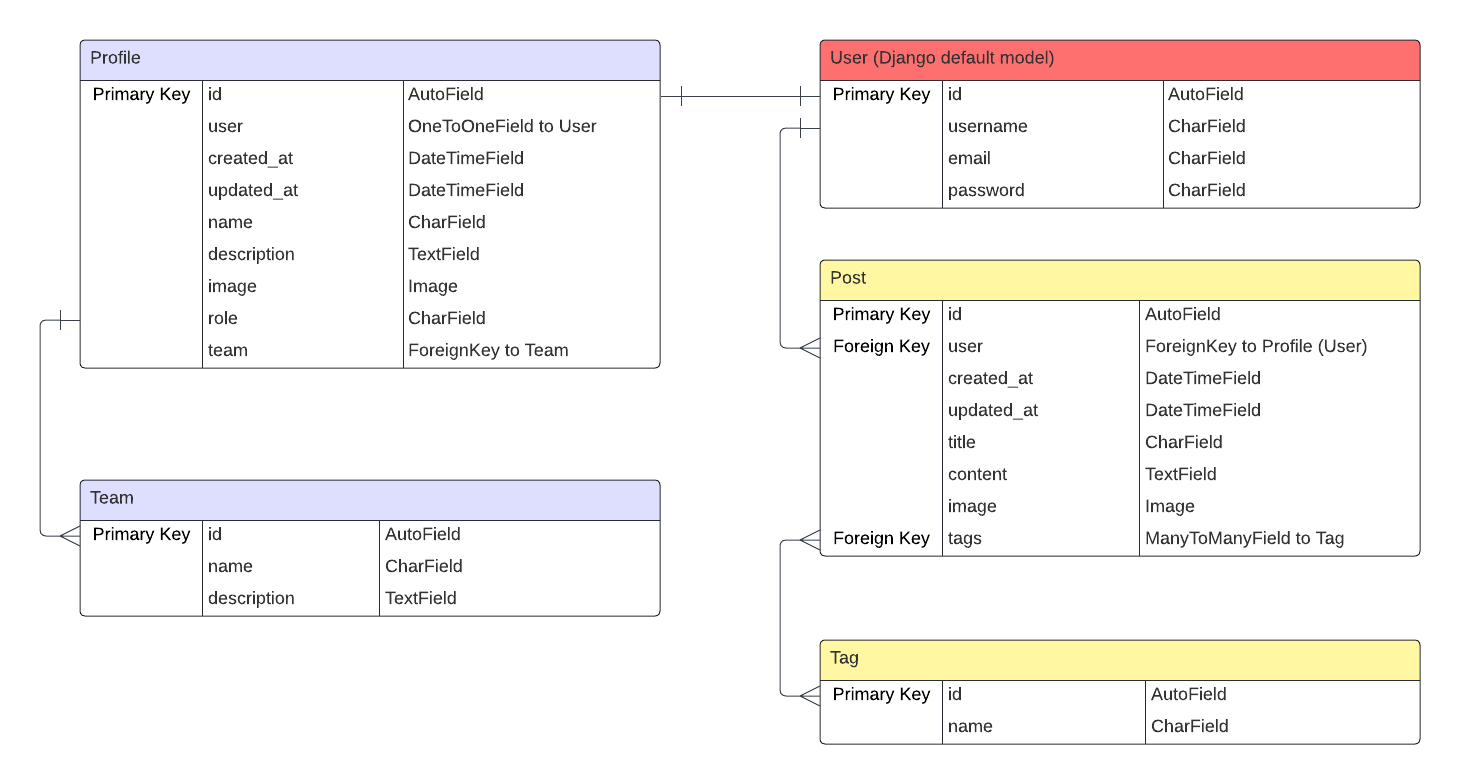
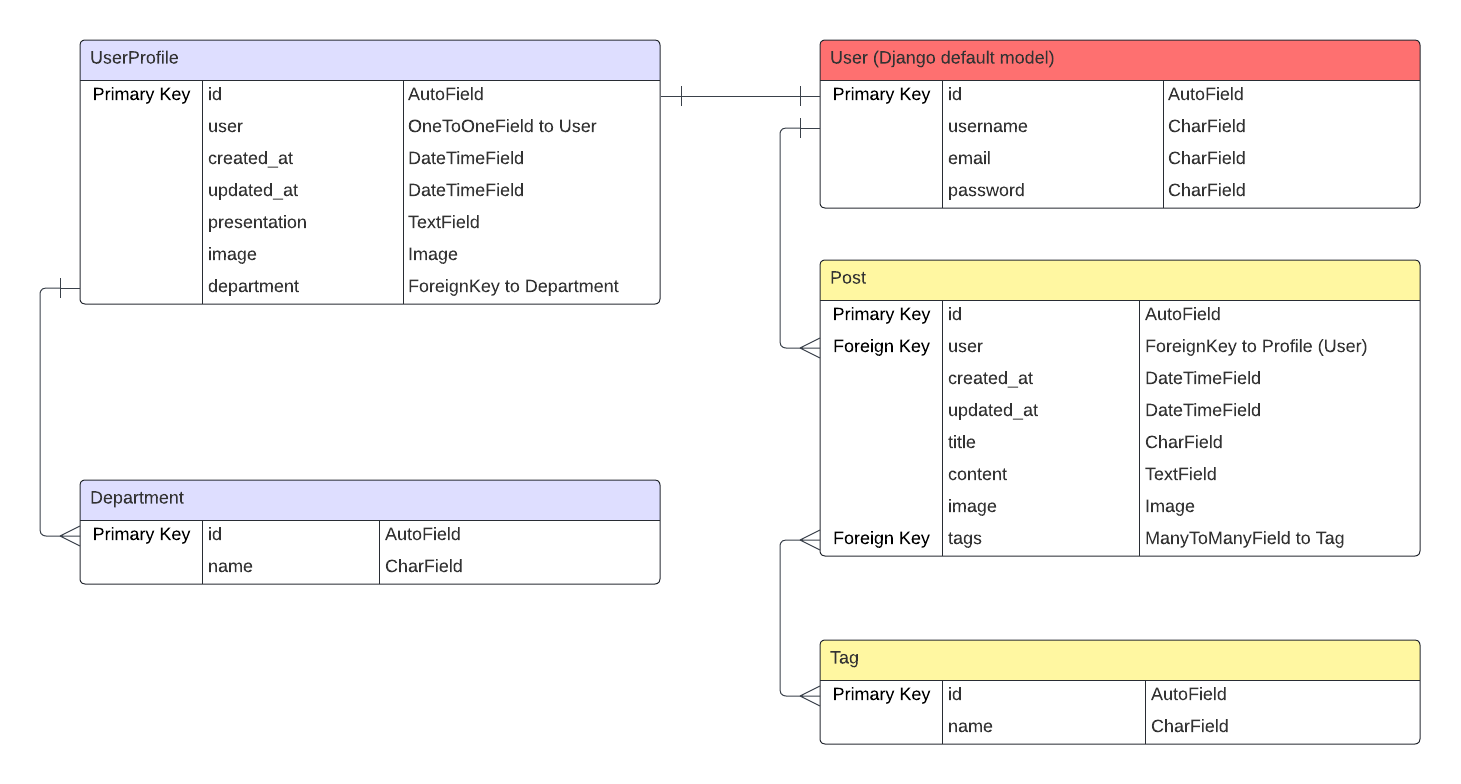
Add ERD draft and updated user stories based on current project scope

diff --git a/README.md b/README.md
@@ -4,13 +4,12 @@ CelebrateIt is a mock social media platform inspired by the solutions offered by
 
 Built using **React** and the **Django Rest Framework**, this project serves as a learning and portfolio exercise, demonstrating advanced front-end capabilities and API integration, showcasing full-stack development skills in designing a functional and user-friendly web application.
 
-  <details>
+<details>
+  <summary>ERD</summary>
 
-    <summary>ERD</summary>
+![ERD Diagram](documentation/ERD_CelebrateIt.png)
 
-    <img src="documentation/ERD_CelebrateIt.png">
-
-  </details>
+</details>
 
 ## 2. **User Experience - UX**
 
@@ -48,21 +47,18 @@ CelebrateIt is designed to make it easy and meaningful for employees to share an
 1. **Discover the Latest Stories** _(must have)_  
    Users can browse the feed to see the most recent stories shared by others across the platform.
 
-2. **Search Stories and People** _(must have)_  
+2. **Search Stories and People** _(should have)_  
    A search tool allows users to find specific stories, colleagues, or teams by keyword.
 
-3. **Follow People or Teams** _(should have)_  
-   Users can follow specific individuals or teams to tailor their feed to what matters most.
-
-4. **Browse Teams and Departments** _(could have)_  
-   Users can explore stories and profiles grouped by teams, departments, or roles within the company to find stories from colleagues they work closely with or want to learn more about.
+3. **Browse Teams or Departments** _(should have)_  
+   Users can explore stories and profiles grouped by teams or departments.
 
 ---
 
 #### **EPIC - Sharing & Celebrating Stories**
 
 1. **Create a Recognition Story** _(must have)_  
-   Users can share a story that highlights a colleague, team, or moment worth celebrating, optionally including an image.
+   Users can share a story that highlights a colleague, team, or moment worth celebrating, optionally including an image and tags.
 
 2. **View My Own Stories** _(should have)_  
    Users can see a list of the stories they’ve written from their own profile.
@@ -78,21 +74,18 @@ CelebrateIt is designed to make it easy and meaningful for employees to share an
 #### **EPIC - Engaging with Stories**
 
 1. **View Story Details** _(must have)_  
-   Any user can click into a story to view it fully, including all associated recognition details and comments.
+   Any user can click into a story to view it fully, including all recognition details.
 
-2. **Like a Story** _(must have)_  
+2. **Like a Story** _(could have)_  
    Logged-in users can show support by liking a story they connect with.
 
-3. **Comment on a Story** _(must have)_  
+3. **Comment on a Story** _(could have)_  
    Users can join the conversation by commenting on recognition stories shared by others.
 
-4. **Edit or Delete My Comments** _(should have)_  
+4. **Edit or Delete My Comments** _(could have)_  
    Users can update or remove comments they've written.
 
-5. **View Liked Stories** _(should have)_  
-   Users can revisit stories they’ve previously liked via their own profile or a dedicated view.
-
-6. **Stories from Followed Profiles** _(should have)_  
+5. **Stories from Followed Profiles** _(could have)_  
    The feed can be filtered to show only stories shared by users or teams the person follows.
 
 ---
@@ -100,15 +93,12 @@ CelebrateIt is designed to make it easy and meaningful for employees to share an
 #### **EPIC - Managing My Profile & Network**
 
 1. **View Public Profiles** _(must have)_  
-   Users can view the public-facing profiles of other employees, including their bio and shared stories.
+   Users can view the public-facing profiles of other employees, including their presentation, department, and shared stories.
 
-2. **Edit My Profile** _(should have)_  
-   Logged-in users can edit their avatar and bio to personalize their presence on the platform.
+2. **Edit My Profile** _(must have)_  
+   Logged-in users can edit their avatar, presentation, and department to personalize their presence on the platform.
 
-3. **View Profile Stats** _(could have)_  
-   Each profile includes stats like number of stories shared, followers, and followed users.
-
-4. **Update My Credentials** _(could have)_  
+3. **Update My Credentials** _(should have)_  
    Users can change their username and password to stay secure and in control of their account.
 
 ---
@@ -121,7 +111,7 @@ CelebrateIt is designed to make it easy and meaningful for employees to share an
 2. **Smooth Page Navigation** _(should have)_  
    Users can move between pages without full reloads, for a fast and fluid experience.
 
-3. **Endless Story Scrolling** _(should have)_  
+3. **Endless Story Scrolling** _(could have)_  
    Stories load automatically as users scroll, removing the need for pagination and keeping engagement flowing.
 
 ---
